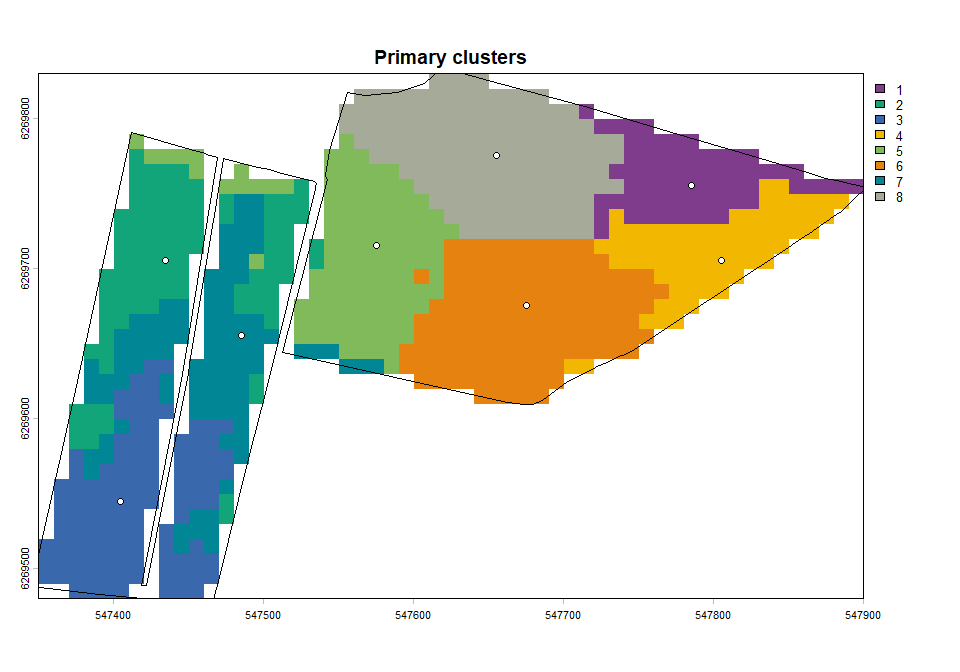
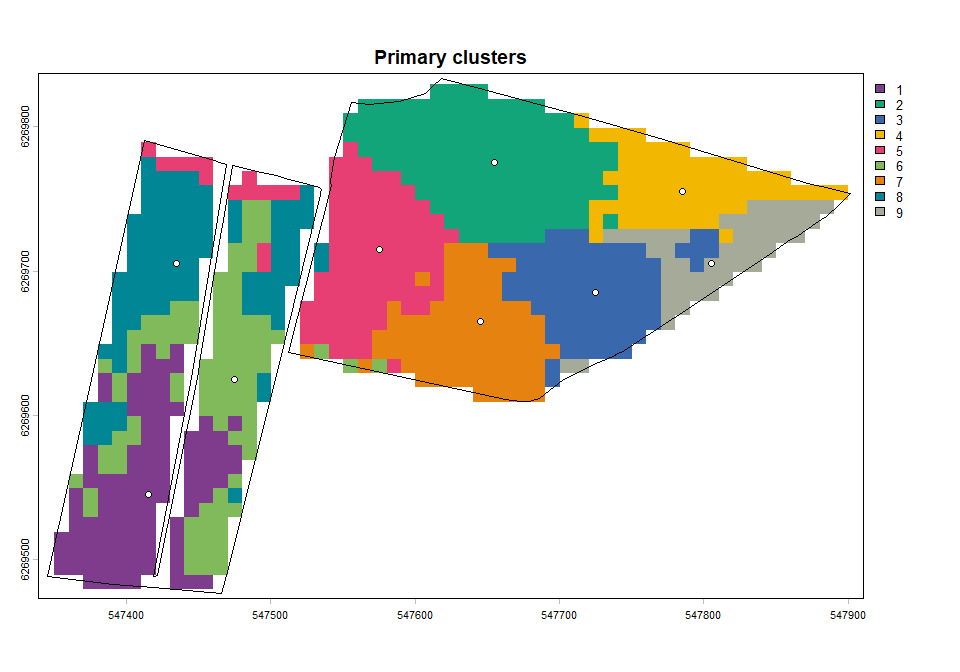
Overhaul Ranked Sampling Point Generation Logic

diff --git a/ranked_samples_workflow.html b/ranked_samples_workflow.html
@@ -621,7 +621,7 @@ for (i in seq_len(nrow(myclusters$points))) {
   cid &lt;- myclusters$points$ID[i]
   csize &lt;- as.numeric(cluster_areas[as.character(cid)])
 
-  if (!is.na(csize) &amp;&amp; csize &gt; 50) {
+  if (!is.na(csize) &amp;&amp; csize &gt;= (100 / sampling_points_ha)) {
     rast_i &lt;- mask(
       sampling_input_pctile,
       mask = myclusters$clusters,
@@ -637,28 +637,39 @@ for (i in seq_len(nrow(myclusters$points))) {
       inverse = TRUE
     ) |&gt;
       crop(rast_i)
-
-    distances_i &lt;- mask(
+    
+    distances_i &lt;- distance(
       myclusters$distances,
-      mask = myclusters$clusters,
-      maskvalue = cid,
-      inverse = TRUE
-    ) |&gt;
+      myclusters$points
+      ) |&gt;
+      mask(
+        mask = myclusters$clusters,
+        maskvalue = cid,
+        inverse = TRUE
+        ) |&gt;
+      sqrt() |&gt;
       crop(rast_i)
-
+    
     clusters_i &lt;- sample_kmeans(
       input = rast_i,
-      clusters = round(csize / (100 / 3)),
+      clusters = round(csize / (100 / sampling_points_ha)),
       use_xy = TRUE,
       only_xy = TRUE,
-      xy_weight = 2,
       sp_pts = TRUE,
       candidates = candidates_i,
-      weights = sqrt(distances_i)
+      seed = 5082
     )
 
     extra_pts[[list_index]] &lt;- clusters_i$points |&gt;
-      mutate(cluster = cid)
+      terra::extract(
+        x = distances_i,
+        bind = TRUE,
+        ID = FALSE
+      ) |&gt;
+      mutate(cluster = cid) |&gt;
+      arrange(distance) |&gt;
+      slice(-1) |&gt;
+      select(-distance)
 
     list_index &lt;- list_index + 1
   }

diff --git a/ranked_samples_workflow.md b/ranked_samples_workflow.md
@@ -229,9 +229,11 @@ plot(study_areas[study_area_idx, ], add = TRUE)
 
 <img src="ranked_samples_workflow_files/figure-html/primary-clustering-1.png" alt="" width="60%" style="display: block; margin: auto;" />
 
-One primary point is selected per cluster to ensure broad within-field coverage.
+## 6. Add Extra Sampling Points
 
-## 6. Add Extra Points in Large Clusters
+The alternative sampling points are generated by using k-means clustering on each of the primary clusters. The additional points are selected from the candidate pixels within the cluster, and the number of additional points is proportional to the cluster size. Unlike the primary sampling points, the alternative sampling points are selected only based on the spatial coordinates of the pixels. This ensures an even geographic distribution of sampling locations within the clusters.
+
+For each cluster, the alternative point located closest to the primary sampling point in each zone is omitted to avoid duplicate sampling locations and to keep the number of sampling locations proportional to the cluster size (each zone already contains one primary sampling location).
 
 
 ``` r
@@ -246,7 +248,7 @@ for (i in seq_len(nrow(myclusters$points))) {
   cid <- myclusters$points$ID[i]
   csize <- as.numeric(cluster_areas[as.character(cid)])
 
-  if (!is.na(csize) && csize > 50) {
+  if (!is.na(csize) && csize >= (100 / sampling_points_ha)) {
     rast_i <- mask(
       sampling_input_pctile,
       mask = myclusters$clusters,
@@ -262,28 +264,39 @@ for (i in seq_len(nrow(myclusters$points))) {
       inverse = TRUE
     ) |>
       crop(rast_i)
-
-    distances_i <- mask(
+    
+    distances_i <- distance(
       myclusters$distances,
-      mask = myclusters$clusters,
-      maskvalue = cid,
-      inverse = TRUE
-    ) |>
+      myclusters$points
+      ) |>
+      mask(
+        mask = myclusters$clusters,
+        maskvalue = cid,
+        inverse = TRUE
+        ) |>
+      sqrt() |>
       crop(rast_i)
-
+    
     clusters_i <- sample_kmeans(
       input = rast_i,
-      clusters = round(csize / (100 / 3)),
+      clusters = round(csize / (100 / sampling_points_ha)),
       use_xy = TRUE,
       only_xy = TRUE,
-      xy_weight = 2,
       sp_pts = TRUE,
       candidates = candidates_i,
-      weights = sqrt(distances_i)
+      seed = 5082
     )
 
     extra_pts[[list_index]] <- clusters_i$points |>
-      mutate(cluster = cid)
+      terra::extract(
+        x = distances_i,
+        bind = TRUE,
+        ID = FALSE
+      ) |>
+      mutate(cluster = cid) |>
+      arrange(distance) |>
+      slice(-1) |>
+      select(-distance)
 
     list_index <- list_index + 1
   }